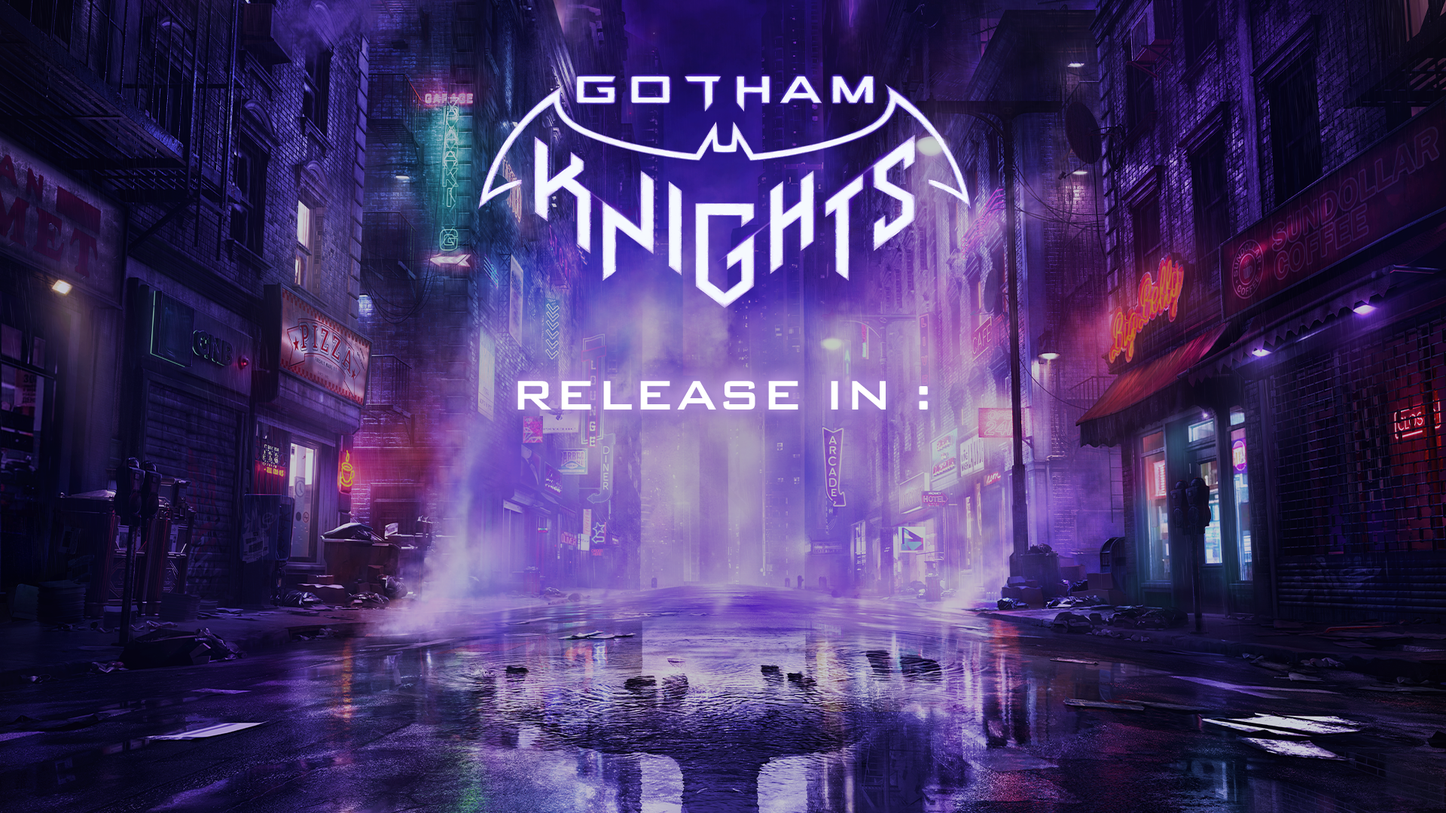
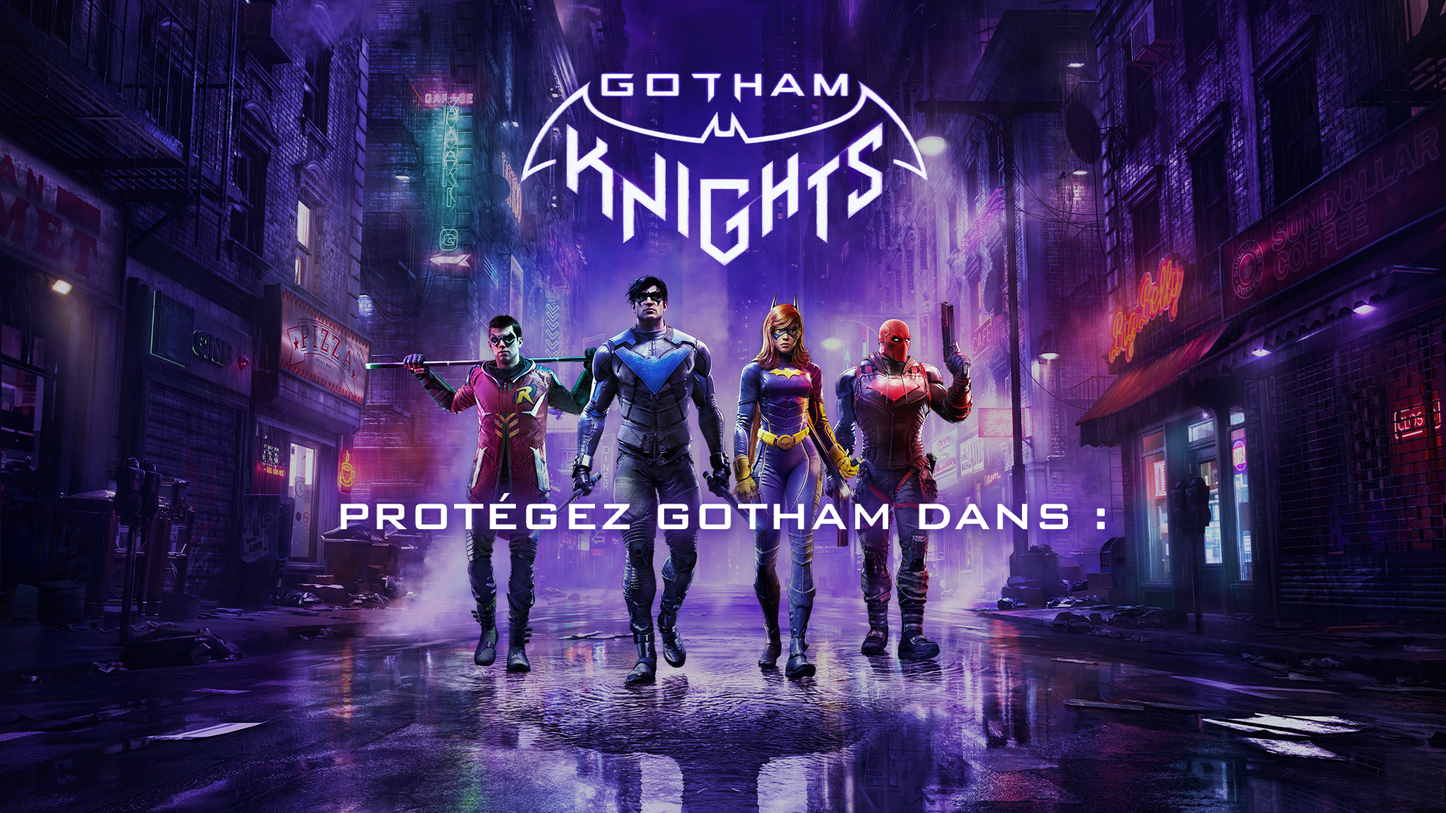
Upda

Changed region(s): [[0.2188, 0.0917, 0.75, 0.8556]]

diff --git a/WarnerCountdown/index.html b/WarnerCountdown/index.html
@@ -34,7 +34,7 @@
         }
 
         // Result is output to the specific element
-        document.getElementById("countdown").innerHTML = days + "D " + hours + "H " + minutes + "M " + seconds + "S";
+        document.getElementById("countdown").innerHTML = days + "j " + hours + "h " + minutes + "m " + seconds + "s";
 
         // Display the message when countdown is over
         if (timeleft < 0) {

diff --git a/WarnerCountdown/assets/css/main.css b/WarnerCountdown/assets/css/main.css
@@ -24,7 +24,7 @@ body{
     margin: unset;
     color: white;
     position: absolute;
-    top: 58%;
+    top: 72%;
     left: 50%;
     transform: translateX(-50%) translateY(-50%);
     font-size: 150px;
